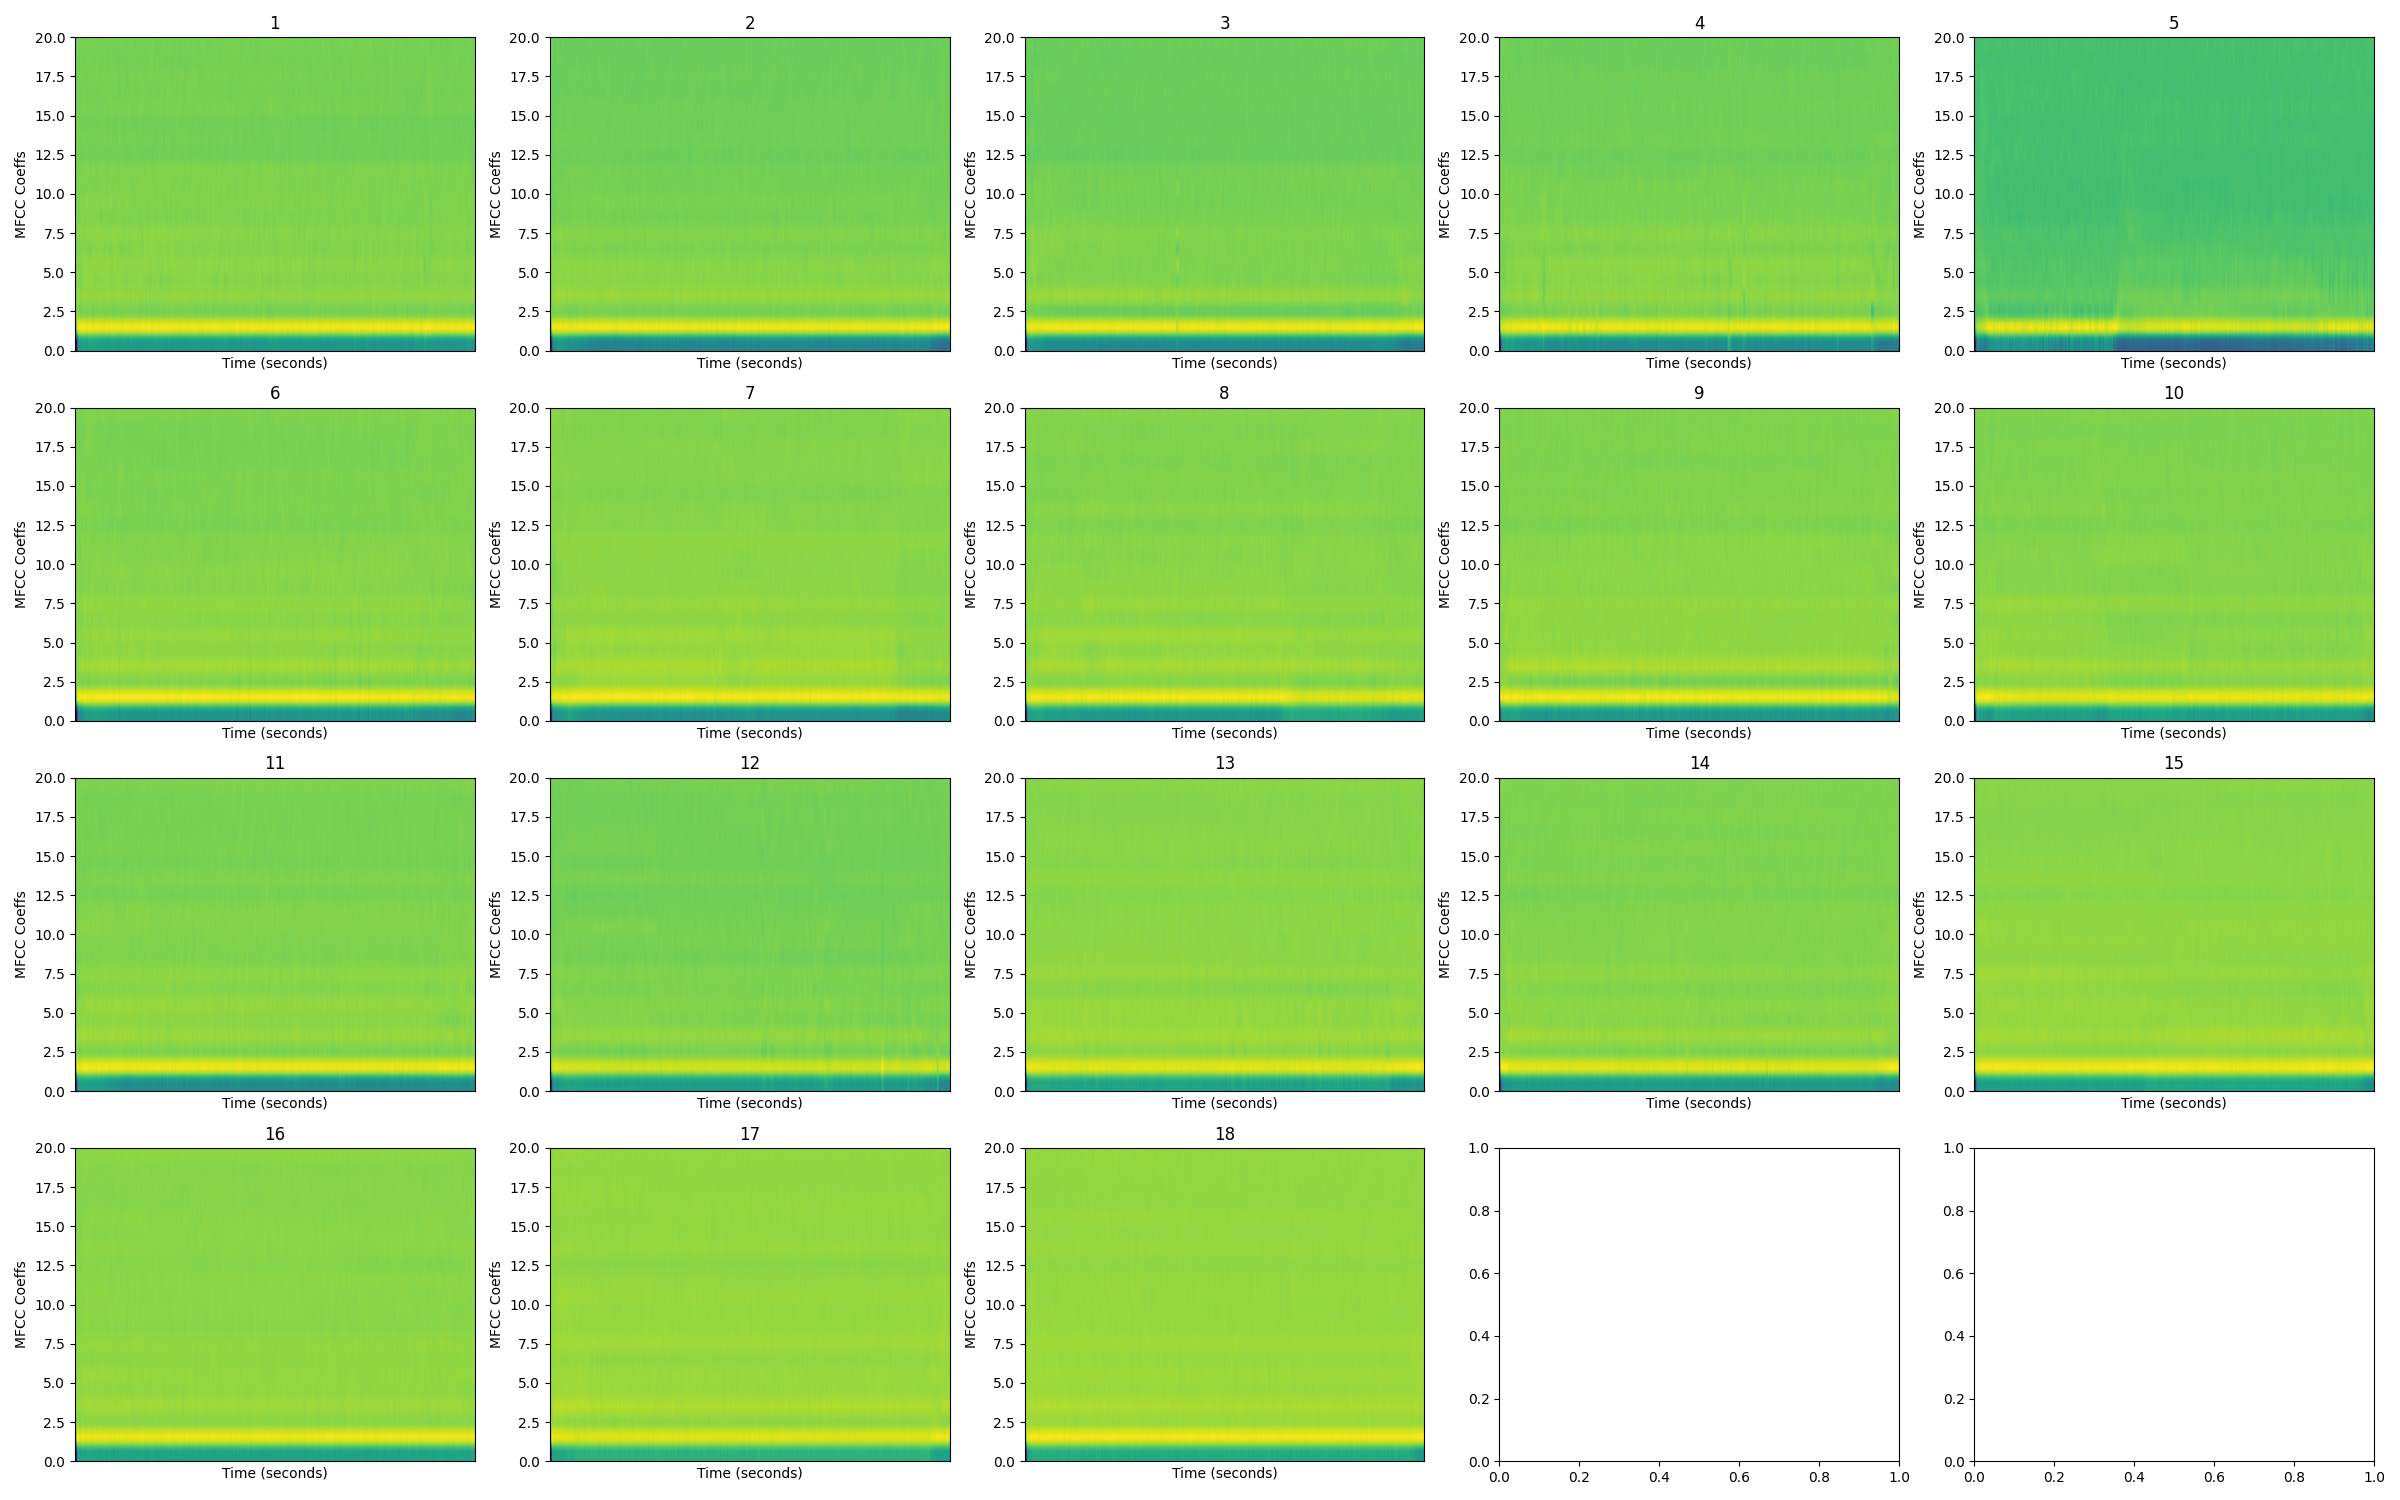
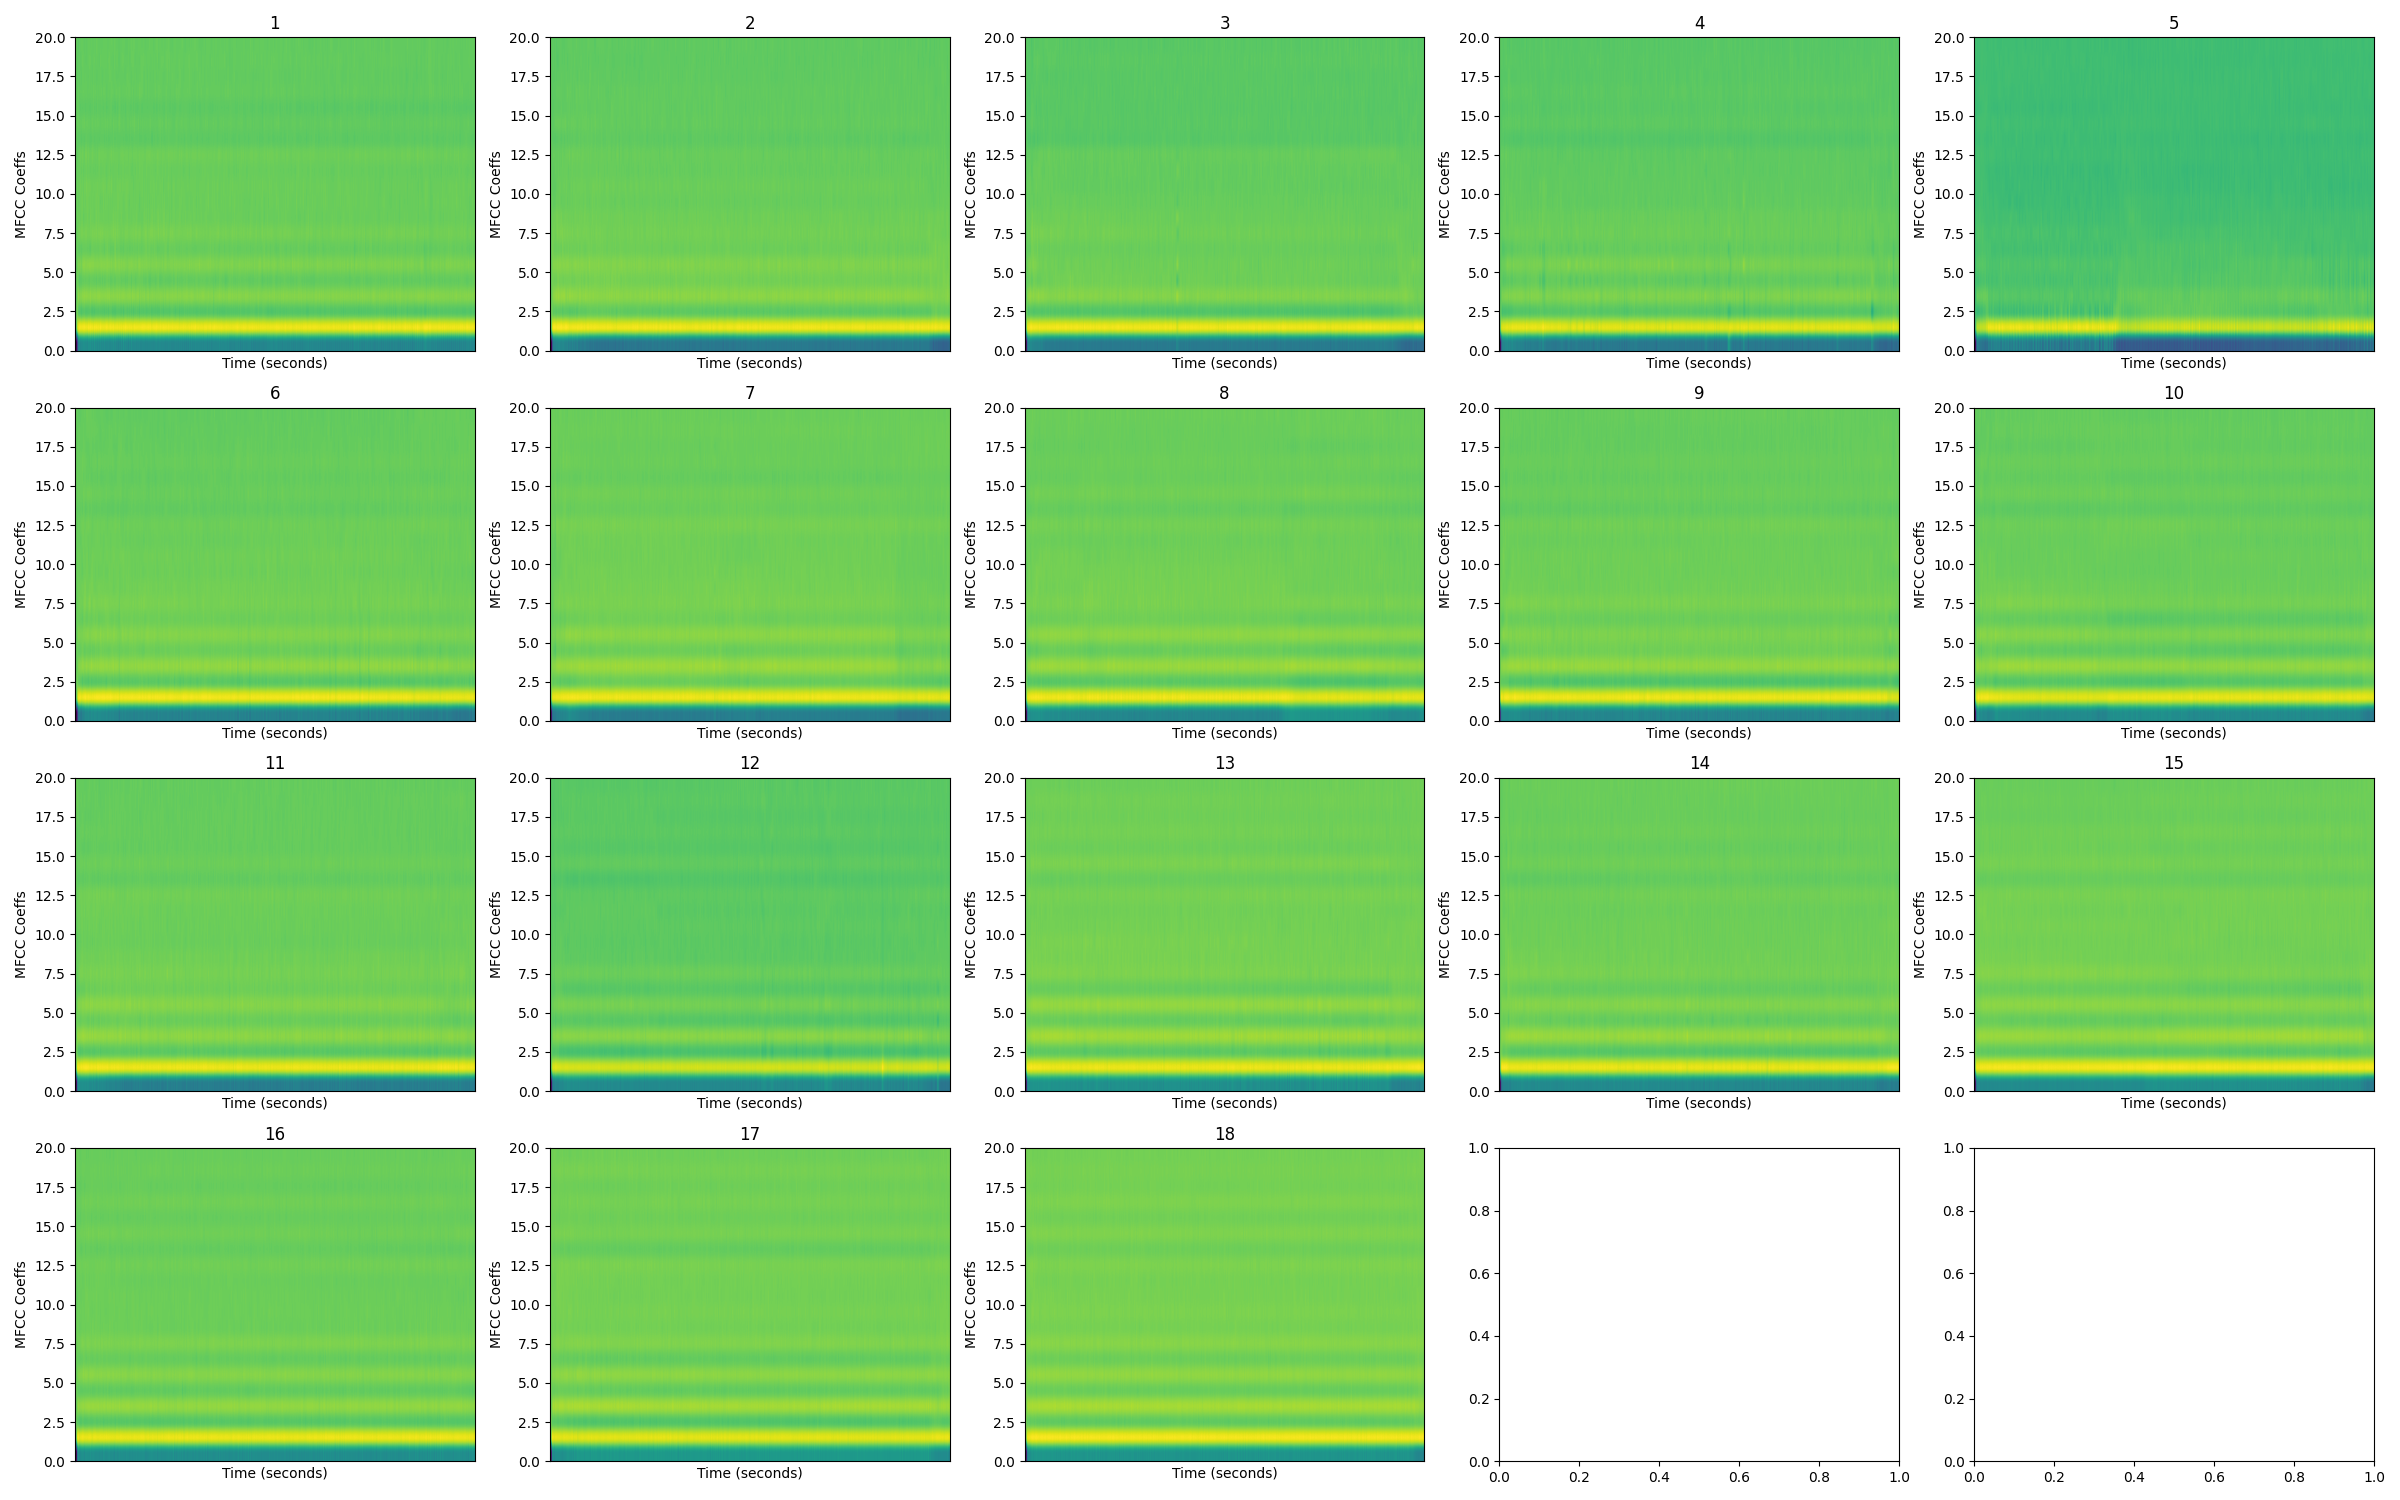
updated code to generate csv, waveforms, spectograms, mbe and mfcc for all the sound files for each engine

diff --git a/Sem4/Thesis/plot_waveform_spectrogram_mbs_mfcc.py b/Sem4/Thesis/plot_waveform_spectrogram_mbs_mfcc.py
@@ -1,3 +1,5 @@
+import csv
+
 import torchaudio
 import torch
 import numpy as np
@@ -8,7 +10,11 @@ import shutil
 import librosa
 import re
 
-from matplotlib import gridspec
+# Safety: Prevent accidental shadowing of built-ins
+import builtins
+for name in ['bin', 'dir', 'id', 'max', 'min', 'sum', 'list', 'dict']:
+    if name in globals():
+        raise NameError(f"STOP! You used '{name}' as a variable name. It's a built-in function!")
 
 """
 ✅ Rule of thumb:
@@ -17,9 +23,9 @@ Use Torchaudio when you’re building a deep learning model in PyTorch and want 
 """
 
 # Frequency bin configuration
-SR = 16000              # sampling rate
+SR = 22050              # sampling rate
 N_FFT = 1024            # FFT window size
-N_BINS = 16              # number of frequency bins (can tune)
+N_BINS = 20              # number of frequency bins (can tune)
 HOP_LENGTH = 512
 
 N_MFCC = 20         # number of MFCCs to extract
@@ -49,19 +55,22 @@ def compute_mbe(filepath, sr=SR, n_fft=N_FFT, hop_length=HOP_LENGTH, n_bins=N_BI
     freqs = librosa.fft_frequencies(sr=sr, n_fft=n_fft)
 
     # Bin edges (linear scale)
-    bin_edges = np.linspace(0, freqs[-1], n_bins+1)
+    bin_edges = np.logspace(np.log10(max(20, sr/1000)), np.log10(sr//2), n_bins + 1)
 
     energies = []
+    bin_centers = []
     for i in range(n_bins):
-        fmin, fmax = bin_edges[i], bin_edges[i+1]
-        idx = np.where((freqs >= fmin) & (freqs < fmax))[0]
-        if len(idx) > 0:
-            band_energy = S[idx, :].mean()   # average power across frames
+        f_low = bin_edges[i]
+        f_high = bin_edges[i + 1]
+        mask = (freqs >= f_low) & (freqs < f_high)
+        if np.any(mask):
+            energy = np.sum(S[mask, :])
         else:
-            band_energy = 0
-        energies.append(band_energy)
+            energy = 1e-10  # avoid zero
+        energies.append(energy)
+        bin_centers.append(np.sqrt(f_low * f_high))  # geometric mean
 
-    return np.array(energies), bin_edges
+    return np.array(energies), np.array(bin_centers), bin_edges
 
 
 def create_plot_grid(total_plots):
@@ -81,6 +90,32 @@ def natural_sort_key(s):
     """
     return [int(text) if text.isdigit() else text.lower()
             for text in re.split(r'(\d+)', str(s))]
+
+
+def safe_bar_width(bin_edges):
+    """
+    Returns a safe width value/array for matplotlib bar plot on log scale.
+    Works even if only 1 bin exists.
+    """
+    if len(bin_edges) < 2:
+        return 0.8  # fallback
+    diffs = np.diff(bin_edges)
+    if len(diffs) == 0:
+        return 0.8
+    # Use 80% of the geometric distance between edges
+    return diffs * 0.8
+
+
+def get_ax(axs, row, col, num_rows, num_cols):
+    """Safely access subplot axis regardless of 1D/2D structure"""
+    if num_rows == 1 and num_cols == 1:
+        return axs
+    elif num_rows == 1:
+        return axs[col]
+    elif num_cols == 1:
+        return axs[row]
+    else:
+        return axs[row, col]
 
 
 if __name__ == "__main__":
@@ -133,13 +168,17 @@ if __name__ == "__main__":
         # Plot each sound file in the grid
         col_cnt = 0
         row_cnt = 0
+        mbe_data_for_engine = []  # To collect all recordings for this engine
 
+        engine_name=None
+        bin_centers = None
         for sound_file in engine_sounds:
             engine_name = sound_file.split('_')[0]
 
             # Load the sound file
             sound_file_path = os.path.join(subdir, sound_file)
             waveform, sample_rate = torchaudio.load(sound_file_path)
+            recording_name = sound_file.split("_")[1].split(".")[0]  # e.g., "1000km", "5000km"
 
             # Convert to mono if stereo
             if waveform.shape[0] > 1:
@@ -173,14 +212,48 @@ if __name__ == "__main__":
             spec_axs[row_cnt, col_cnt].set_ylabel('Frequency (Hz)')
             spec_axs[row_cnt, col_cnt].set_xticks([])
 
-            mbe, bins = compute_mbe(sound_file_path)
-            bin_centers = 0.5 * (bins[:-1] + bins[1:])
-            width = (bins[1] - bins[0]) * 0.4  # bar width
-            mbe_axs[row_cnt, col_cnt].bar(bin_centers, mbe, width, color='blue')
-            mbe_axs[row_cnt, col_cnt].set_title(f'{sound_file.split("_")[1].split(".")[0]}')
-            mbe_axs[row_cnt, col_cnt].set_xlabel('Frequency (Hz)')
-            mbe_axs[row_cnt, col_cnt].set_ylabel('Power')
-            mbe_axs[row_cnt, col_cnt].set_xticks([])
+            mbe_energies, bin_centers, bin_edges = compute_mbe(sound_file_path)
+
+            # Store data for CSV
+            mbe_data_for_engine.append({
+                'recording': sound_file,
+                'label': recording_name,
+                'energies': mbe_energies.tolist(),
+                'bin_centers': bin_centers.tolist()
+            })
+
+            # bin_centers = 0.5 * (bins[:-1] + bins[1:])
+            # width = (bins[1] - bins[0]) * 0.4  # bar width
+            # mbe_axs[row_cnt, col_cnt].bar(bin_centers, mbe, width, color='blue')
+            # mbe_axs[row_cnt, col_cnt].set_title(f'{sound_file.split("_")[1].split(".")[0]}')
+            # mbe_axs[row_cnt, col_cnt].set_xlabel('Frequency (Hz)')
+            # mbe_axs[row_cnt, col_cnt].set_ylabel('Power')
+            # mbe_axs[row_cnt, col_cnt].set_xticks([])
+
+            # Plotting
+            ax = get_ax(mbe_axs, row_cnt, col_cnt, num_rows, num_cols)
+
+            # === BAR PLOT WITH SAFE WIDTH ===
+            width = safe_bar_width(bin_edges)
+
+            ax.bar(bin_centers, mbe_energies,
+                   width=width,
+                   color='steelblue',
+                   edgecolor='black',
+                   alpha=0.85,
+                   align='center',
+                   log=False)  # log=False because x is already log-scaled
+
+            ax.set_title(recording_name, fontsize=10, pad=10)
+            ax.set_xlabel('Frequency (Hz)')
+            ax.set_ylabel('Energy')
+            ax.set_xscale('log')
+
+            # Nice log-scale ticks
+            ax.set_xticks([50, 100, 200, 500, 1000, 2000, 4000, 8000])
+            ax.set_xticklabels(['50', '100', '200', '500', '1k', '2k', '4k', '8k'])
+            ax.grid(True, axis='y', alpha=0.3, linewidth=0.7)
+            ax.grid(True, axis='x', alpha=0.2, which='minor')
 
             # Load the sound file for MFCC
             y, sr = librosa.load(sound_file_path, sr=SR, mono=True)
@@ -198,6 +271,15 @@ if __name__ == "__main__":
                 col_cnt = 0
                 row_cnt += 1
 
+        # === Hide unused subplots ===
+        while row_cnt < num_rows:
+            while col_cnt < num_cols:
+                ax = get_ax(mbe_axs, row_cnt, col_cnt, num_rows, num_cols)
+                ax.axis('off')
+                col_cnt += 1
+            col_cnt = 0
+            row_cnt += 1
+
         # Save the plots
         waveform_fig.tight_layout()
         waveform_fig.savefig(f'{plot_dir_name}/{engine_name}_waveform.png')
@@ -207,9 +289,26 @@ if __name__ == "__main__":
         spec_fig.savefig(f'{plot_dir_name}/{engine_name}_spectrogram.png')
         plt.close(spec_fig)
 
-        mbe_fig.tight_layout()
-        mbe_fig.savefig(f'{plot_dir_name}/{engine_name}_mbe.png')
+        mbe_fig.tight_layout(h_pad=2)
+        mbe_fig.savefig(f'{plot_dir_name}/{engine_name}_mbe.png', dpi=150, bbox_inches='tight')
         plt.close(mbe_fig)
+
+        # === Save MBE numerical data to CSV ===
+        engine_mbe_csv = f"{plot_dir_name}/{engine_name}_mbe_data.csv"
+        with open(engine_mbe_csv, 'w', newline='') as f:
+            writer = csv.writer(f)
+            header = ['Recording', 'Label'] + [f'Band_{i + 1}_Hz({bin_centers[i]:.1f}Hz)' for i in range(N_BINS)]
+            writer.writerow(header)
+
+            for item in mbe_data_for_engine:
+                row = [item['recording'], item['label']] + item['energies']
+                writer.writerow(row)
+
+        print(f"MBE numerical data saved: {engine_mbe_csv}")
+
+        # Optional: Print summary
+        print(f"Engine: {engine_name} | Recordings: {len(mbe_data_for_engine)} | Bands: {N_BINS}")
+        print("-" * 60)
 
         mfcc_fig.tight_layout()
         mfcc_fig.savefig(f'{plot_dir_name}/{engine_name}_mfcc.png')
